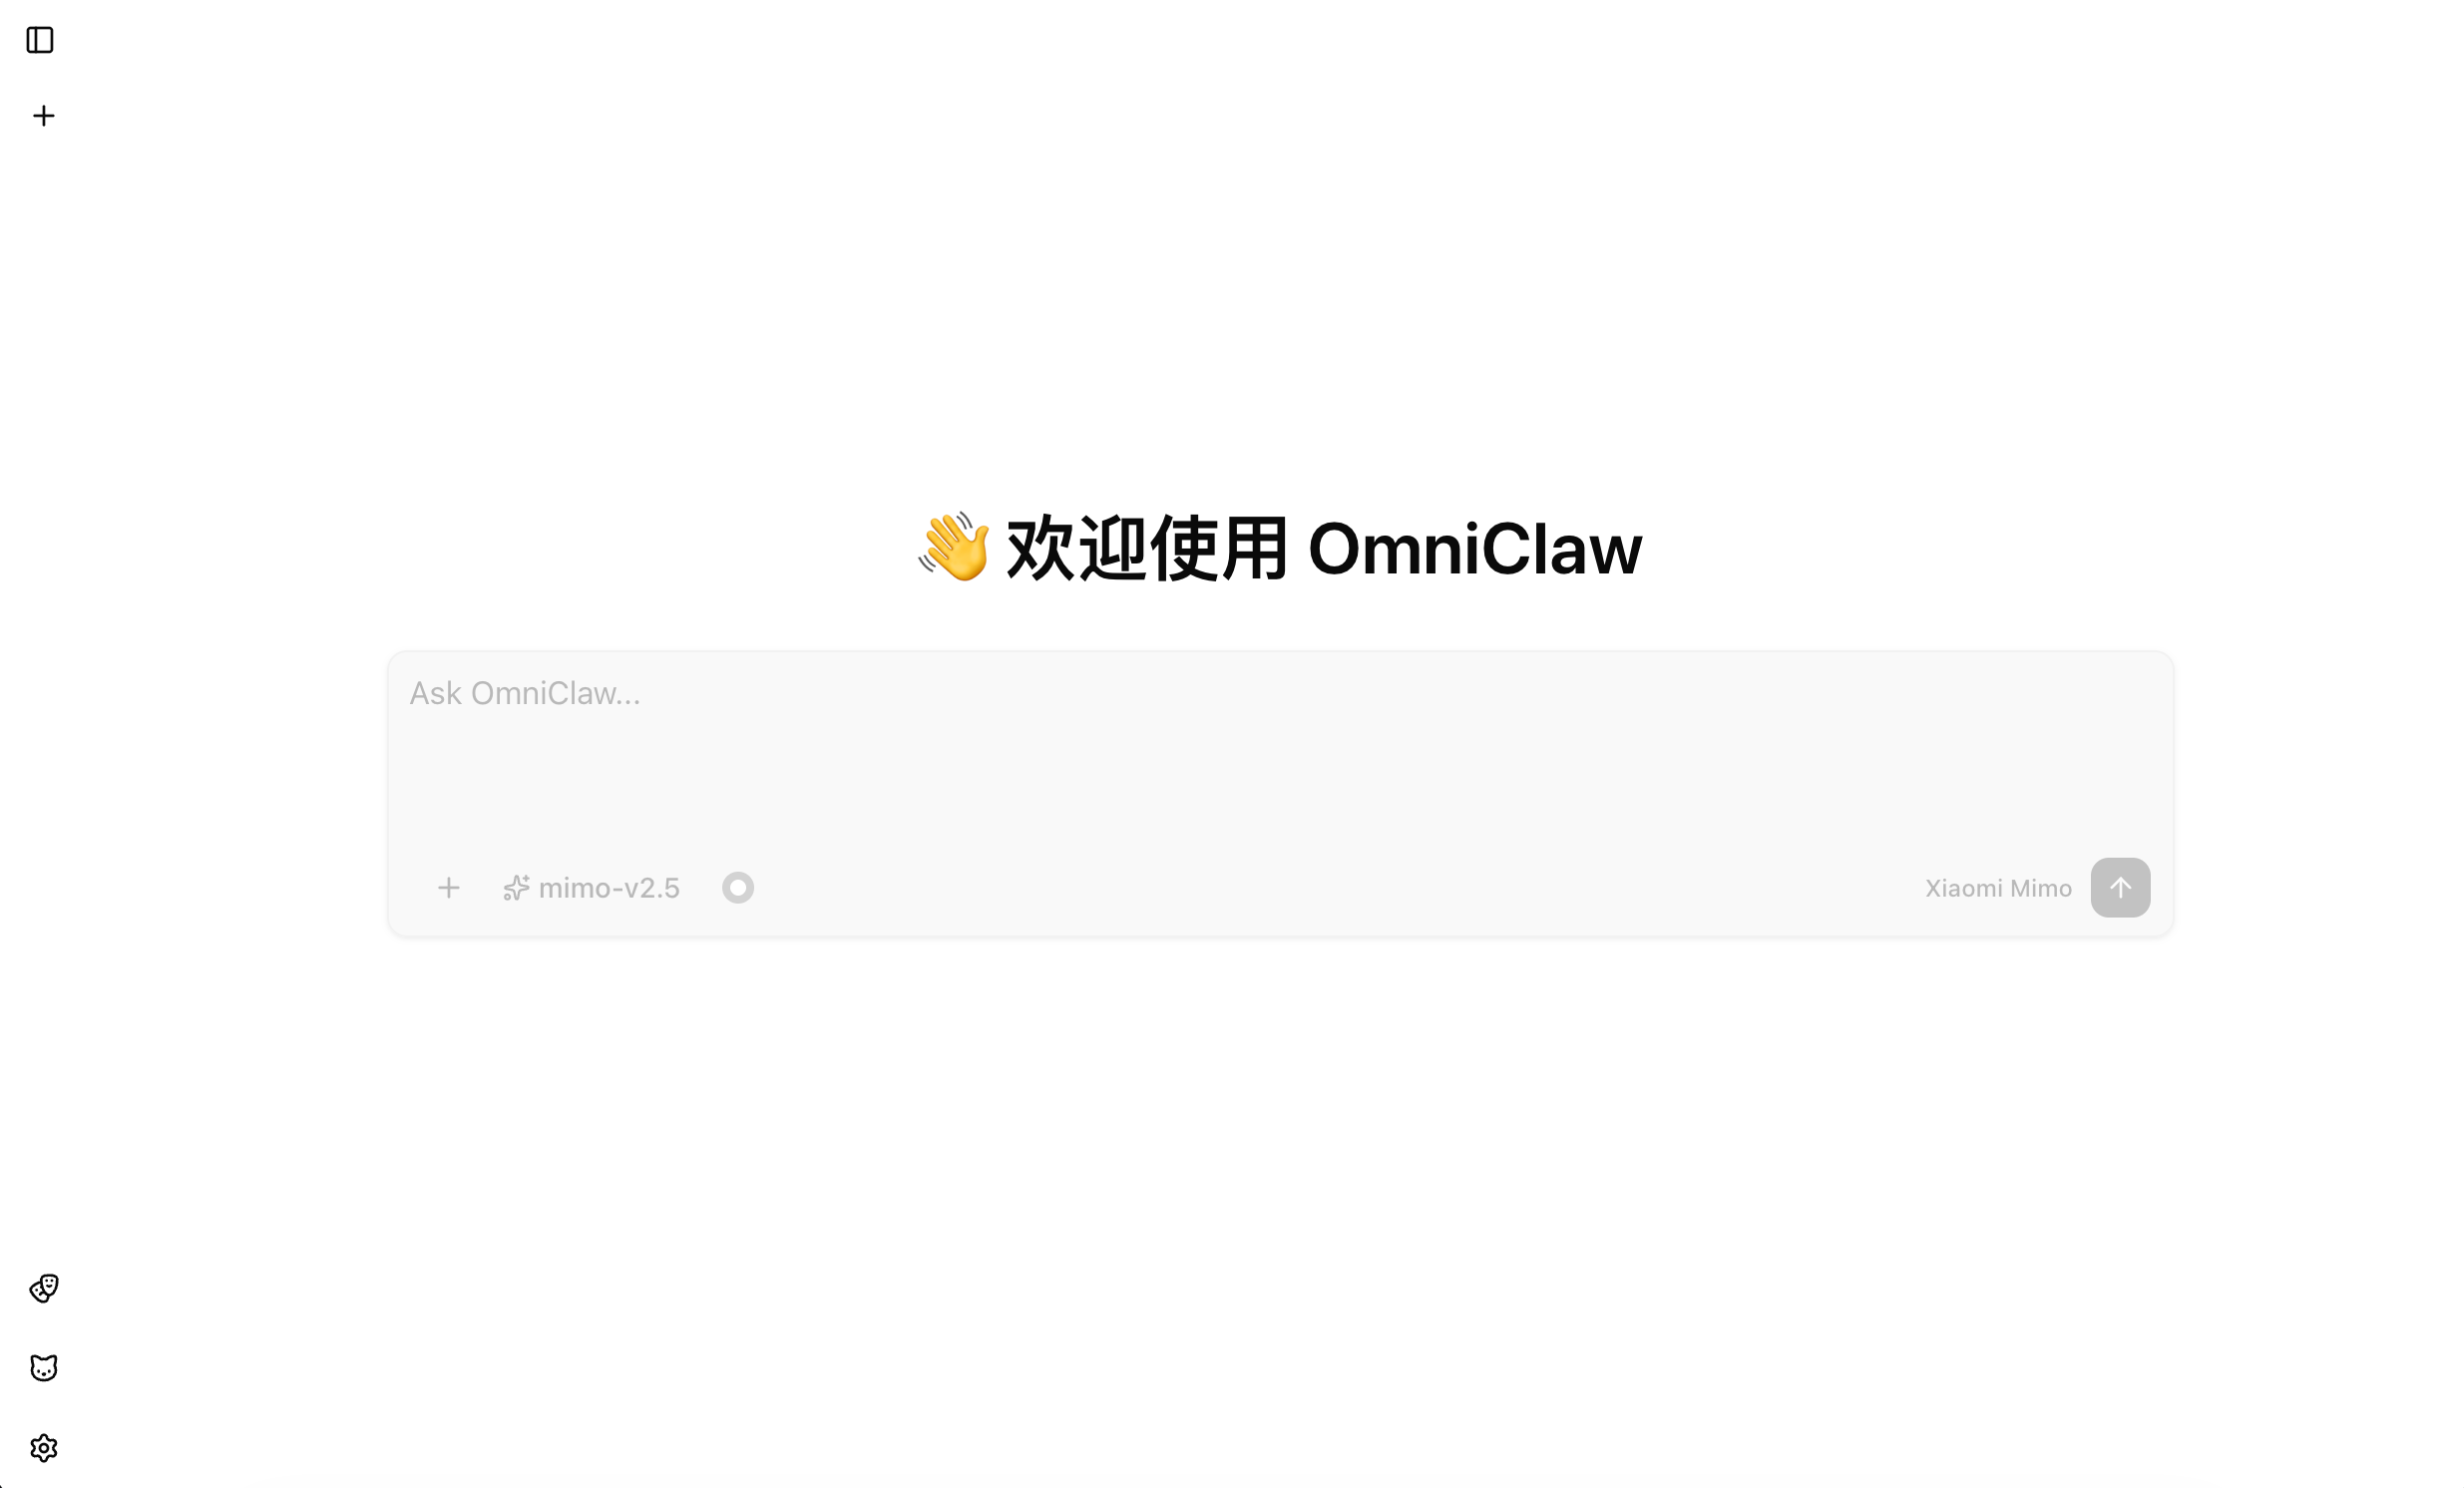
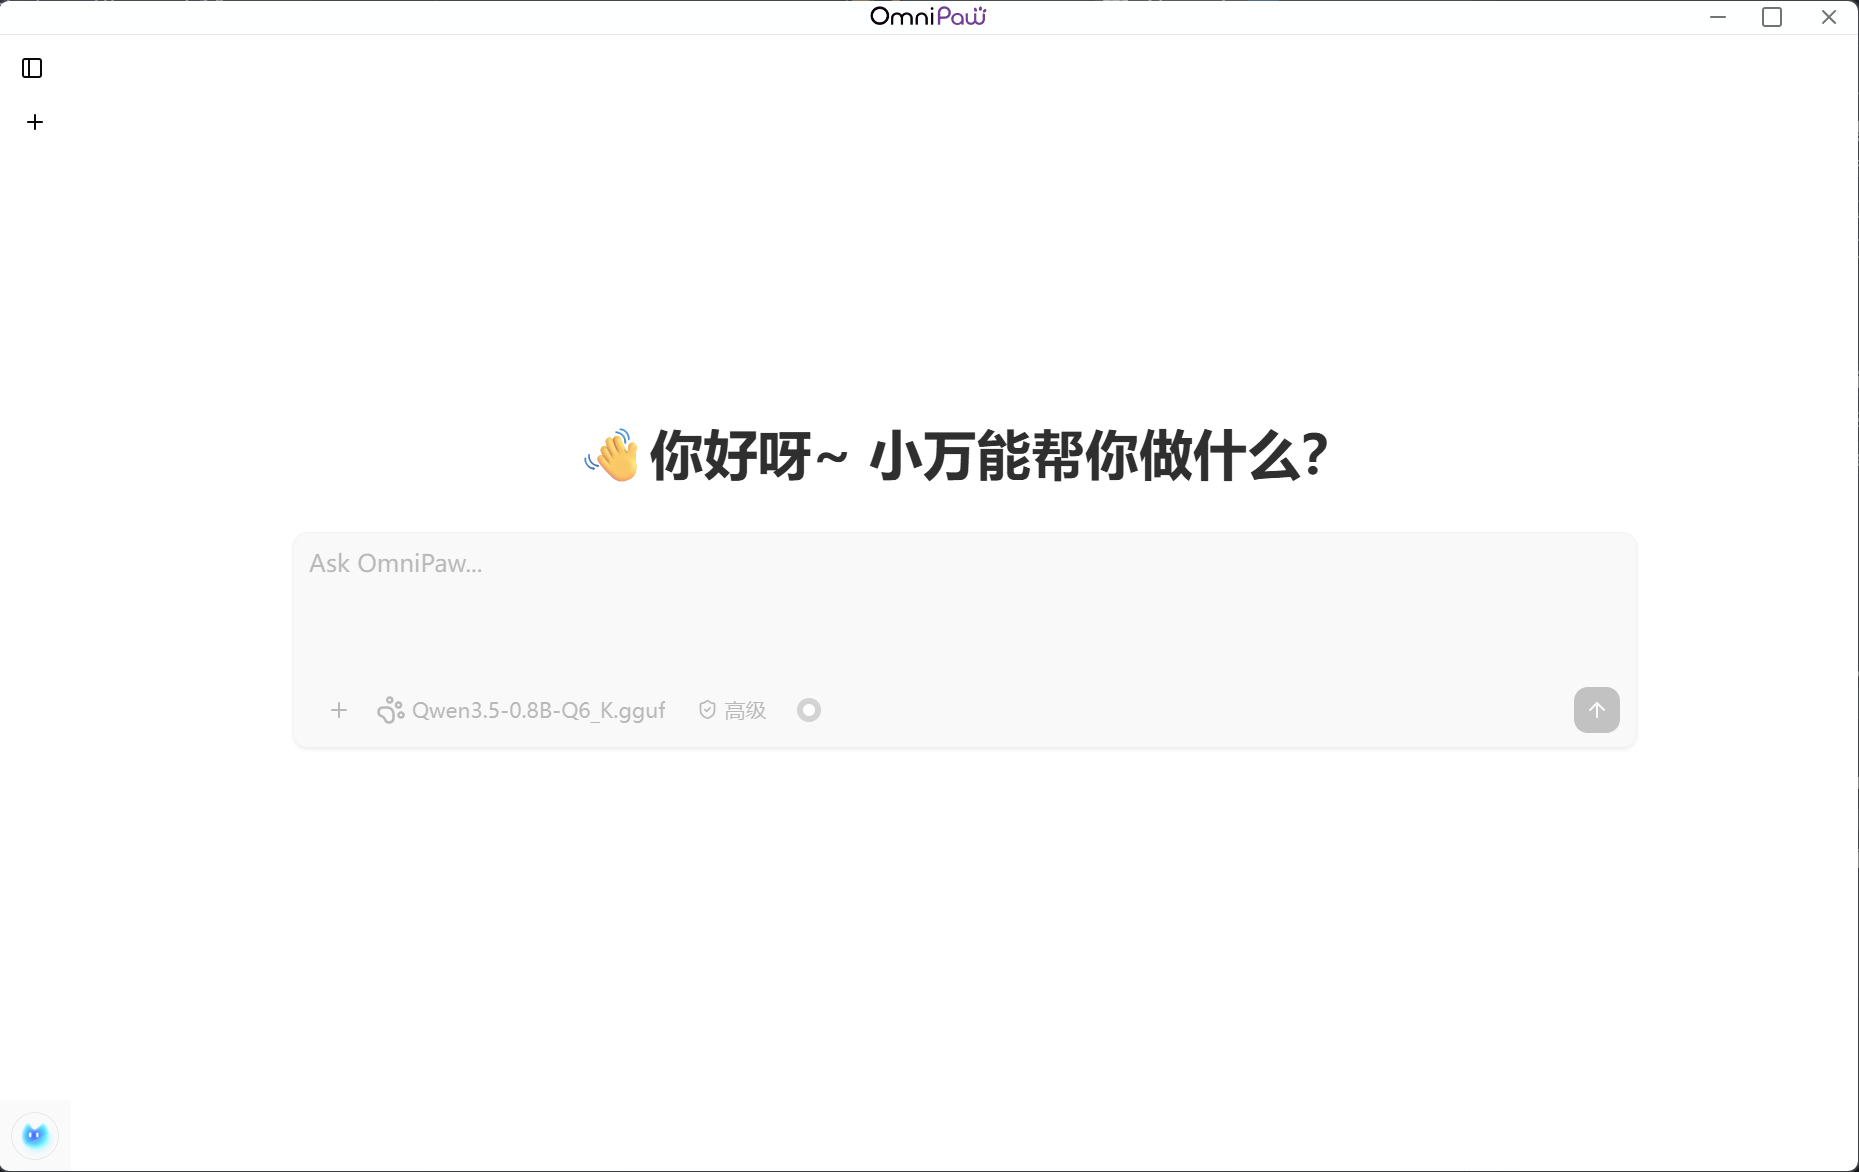
docs: update screenshots and images in README files for improved visual representation

diff --git a/README.md b/README.md
@@ -27,31 +27,34 @@ OmniPaw is a local-first AI desktop pet that lives on your desktop and gradually
 ## Screenshots
 
 <p align="center">
-  <img src="public/version.png" alt="OmniPaw desktop pet observing the screen and responding with a notification bubble" width="100%" />
+  <img src="public/hello.png" alt="OmniPaw home screen" width="100%" />
   <br />
-  <strong>Desktop Pet, Visual Observation, and Proactive Feedback</strong>
 </p>
 
 <table>
   <tr>
     <td width="50%">
-      <img src="public/traven.png" alt="OmniPaw character and role-play context" />
+      <img src="public/pet.png" alt="Chat with the OmniPaw desktop pet" />
+    </td>
+    <td width="50%">
+      <img src="public/pet-status.png" alt="OmniPaw desktop pet relationship and status panel" />
+    </td>
+  </tr>
+  <tr>
+    <td align="center"><strong>Chat with Your Desktop Pet</strong></td>
+    <td align="center"><strong>Relationship and Status</strong></td>
+  </tr>
+  <tr>
+    <td width="50%">
+      <img src="public/version.png" alt="OmniPaw desktop pet observing the screen and responding with a notification bubble" />
     </td>
     <td width="50%">
       <img src="public/corn.png" alt="Scheduled tasks and tool calls" />
     </td>
   </tr>
   <tr>
-    <td align="center"><strong>Characters and Role-play Context</strong></td>
+    <td align="center"><strong>Visual Observation and Proactive Feedback</strong></td>
     <td align="center"><strong>Scheduled Tasks and Tool Calls</strong></td>
-  </tr>
-  <tr>
-    <td colspan="2">
-      <img src="public/hello.png" alt="OmniPaw focused chat workspace" />
-    </td>
-  </tr>
-  <tr>
-    <td colspan="2" align="center"><strong>Focused Chat Workspace</strong></td>
   </tr>
 </table>
 
@@ -106,37 +109,6 @@ pnpm start
 pnpm pack
 pnpm dist
 ```
-
-## Local Models (OmniInfer)
-
-OmniPaw can run small GGUF models locally via the embedded OmniInfer runtime.
-
-### Distribution Variants
-
-- **Full build** (`pnpm build:full`): bundles the OmniInfer binary under `resources/omniinfer/` via electron-builder `extraResources`. Users get a turnkey experience — drop a `.gguf` into the models directory and chat.
-- **Slim build** (`pnpm build:slim`): omits the OmniInfer binary to reduce installer size by hundreds of MB. Users supply OmniInfer themselves by either placing it in the install directory under `resources/omniinfer/` or setting `OMNIPAW_OMNIINFER_PATH` to the binary path.
-
-### Bundling OmniInfer for the Full Build
-
-Developers must drop an OmniInfer release (e.g. from the OmniStudio release package) into `resources/omniinfer/` before running `pnpm build:full`. The directory is `.gitignore`d except for `.gitkeep`. The build pre-check (`scripts/check-omniinfer-resources.mjs`) warns if expected binaries are missing.
-
-### Models Directory
-
-- Production: `<userData>/models/` (auto-created on first run)
-- Development: if `<repo-root>/models/` exists, it overrides the userData path
-
-Override at runtime via the `OMNIINFER_MODELS_DIR_OVERRIDE` environment variable.
-
-### Using a Local Model
-
-1. Place a `.gguf` file into the models directory, or use the "选择本地 .gguf" button in **Settings → 本地模型** to point to a file anywhere on disk.
-2. The Settings panel shows the OmniInfer process state (`运行中` / `已停止` / `未内置` / ...) and the list of installed models.
-3. Click "加载" on a model to invoke `/omni/model/select`; the badge "已加载" appears once OmniInfer reports the model ready.
-4. In **设置 → 模型服务** make sure the `OmniInfer Local` provider is enabled, then select it in any chat session and start talking — the provider lazily ensures the right model is loaded before sending the request.
-
-### Logs
-
-OmniInfer process stdout/stderr is written under `<app logs>/omniinfer/`. Open the directory via the "查看日志" button in the Local Models settings.
 
 ## Contributing
 